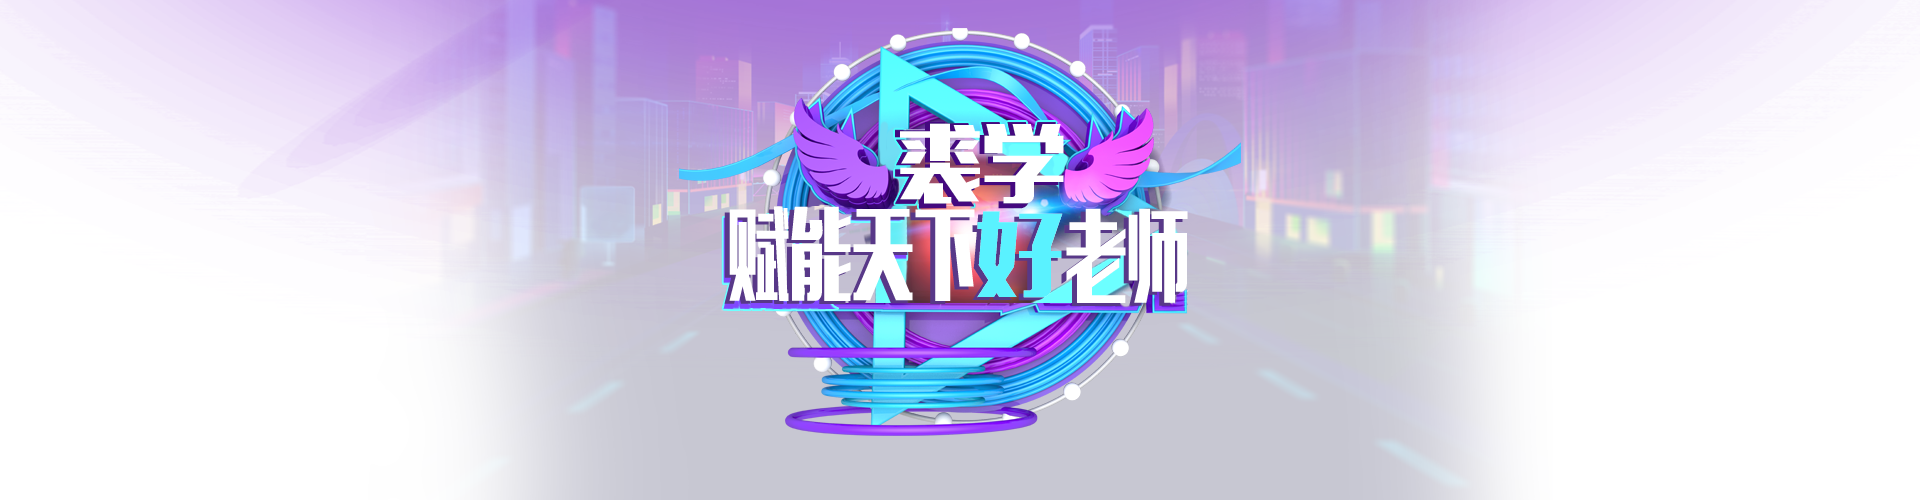
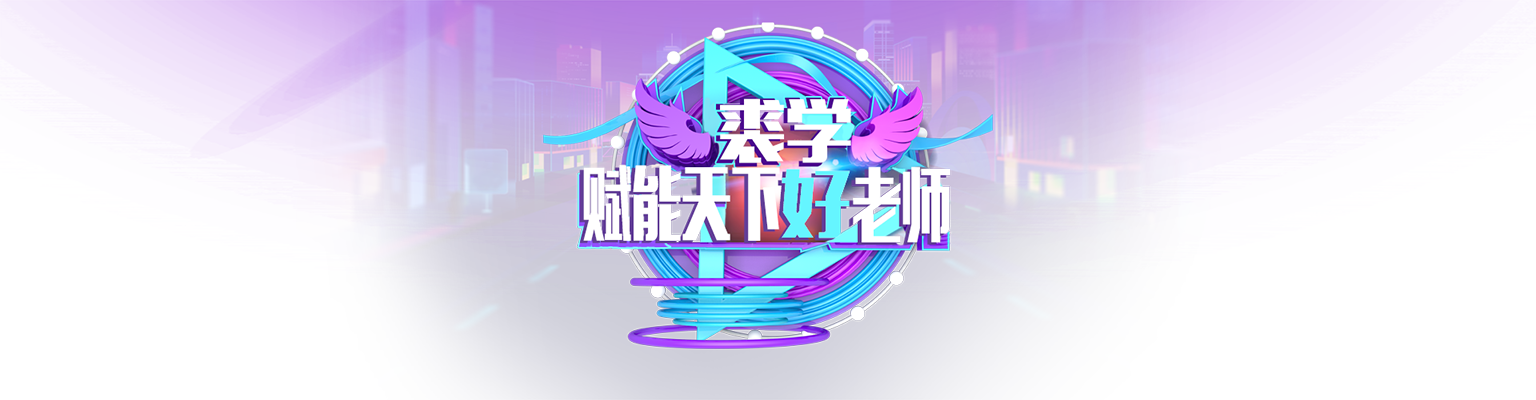
入驻申请 页面更新

diff --git a/vue/application/index.html b/vue/application/index.html
@@ -5,7 +5,7 @@
     <meta http-equiv="X-UA-Compatible" content="IE=edge">
     <meta name="viewport" content="width=device-width, initial-scale=1, user-scalable=no">
     <meta name="format-detection" content="telephone=yes">
-    <title>申请入驻</title>
+    <title>入驻申请</title>
     <!-- 引入样式 -->
     <link rel="stylesheet" href="https://unpkg.com/mint-ui/lib/style.css">
     <link rel="stylesheet" href="css/index.css">
@@ -14,6 +14,7 @@
 <div id="app" class="wrap">
     <div class="header">
         <div class="header-ad">
+            <img src="images/ad-icon.png" height="200" />
         </div>
     </div>
     <div class="container">
@@ -21,9 +22,8 @@
             <div class="title">— 入驻申请 —</div>
             <div class="form-items">
                 <mt-field label="姓名" placeholder="请输入姓名" v-model="info.name"></mt-field>
-                <mt-field label="年龄" placeholder="请输入年龄" type="number" v-model="info.age"></mt-field>
-                <mt-field label="教授科目" placeholder="请输入教授科目" v-model="info.subject"></mt-field>
-                <mt-field label="教龄" placeholder="请输入教龄" type="number" v-model="info.exAge"></mt-field>
+                <mt-field label="年龄" placeholder="请输入年龄" v-model="info.age"></mt-field>
+                <mt-field label="教龄" placeholder="请输入教龄" v-model="info.exAge"></mt-field>
                 <mt-field label="擅长科目及年级" placeholder="多个科目或年级以,隔开" v-model="info.goodSubject"></mt-field>
                 <mt-field label="教学经历" placeholder="请输入教学经历" type="textarea" rows="4" v-model="info.experience"></mt-field>
                 <mt-field label="教学特色" placeholder="请输入教学特色" type="textarea" rows="4" v-model="info.characteristic"></mt-field>
@@ -42,8 +42,10 @@
                 </div>
                 <mt-popup v-model="popupSchool" class="school-popup" position="bottom">
                     <div class="school-list" v-if="popupSchool">
-                        <div class="school-item" v-for="(item, index) in schoolValues" :key="index" @click="handleSchoolPicker(item)">
-                            {{item}}<i v-if="item === info.school" class="mintui mintui-success"></i>
+                        <div class="school-item" v-for="(item, index) in schoolValues" :key="index" @click="handleSchoolPicker(item.name)">
+                            <div class="name">{{item.name}}</div>
+                            <div class="address">{{item.address}}</div>
+                            <i v-if="item.name === info.school" class="mintui mintui-success"></i>
                         </div>
                     </div>
                 </mt-popup>
@@ -73,27 +75,60 @@
 <script src="js/vue.js"></script>
 <script src="https://unpkg.com/mint-ui/lib/index.js"></script>
 <script src="https://unpkg.com/axios/dist/axios.min.js"></script>
+<script src="http://res.wx.qq.com/open/js/jweixin-1.0.0.js"></script>
 <script>
     var app = new Vue({
         el: '#app',
         data: {
             info: {
-                name: null,
+                name: null, // 姓名
                 age: null, // 年龄
-                subject: null, // 教授科目
                 exAge: null, // 教龄
-                goodSubject: null,
+                goodSubject: null, // 擅长科目
                 experience: null, // 教学经历
                 characteristic: null, // 教学特色
                 cases: null, // 教学成功案例
-                school: null,
-                certificate: null,
-                phone: null,
+                school: null, // 校区
+                certificate: null, // 获奖证书
+                phone: null, // 手机
             },
             popupPhoto: false,
             popupIndex: 0,
             popupSchool: false,
-            schoolValues: ['红岭校区', '百花校区', '五和校区', '宝安校区'],
+            schoolValues:[
+                {
+                    name: '裘学红岭旗舰校区',
+                    address: '福田区红岭中路2029-2041号商业裙楼全二层'
+                },
+                {
+                    name: '裘学百花校区',
+                    address: '福田区百花二路百花新天地裙楼四层（艺术学校对面）'
+                },
+                {
+                    name: '裘学梅林校区',
+                    address: '福田区梅林一村五区综合楼（华润万家超市二楼）'
+                },
+                {
+                    name: '裘学莲花北校区',
+                    address: '福田区莲花路莲花北村富莲大厦二栋三楼'
+                },
+                {
+                    name: '裘学翠竹校区',
+                    address: '罗湖区翠竹路翠都花园裙楼一层'
+                },
+                {
+                    name: '裘学五和校区',
+                    address: '龙岗区坂田街道四季花城紫薇苑商业街A02商铺'
+                },
+                {
+                    name: '裘学田贝校区',
+                    address: '罗湖区贝丽南路龙丽园裙楼一层106号'
+                },
+                {
+                    name: '裘学宝安校区',
+                    address: '宝安区香缤广场四楼（影尊电影院旁边）'
+                }
+            ],
         },
         methods: {
             handleClick: function (event) {
@@ -101,85 +136,122 @@
                 if (!_this.info.name || !_this.info.phone) {
                     _this.$messagebox('提示', '请填写' + (!_this.info.name ? '姓名' : '') + (!_this.info.phone ? '手机号码' : '') + '！');
                 } else {
-                    axios.post('/applicate/add', {
-                        name: _this.info.name,
-                        age: _this.info.age, // 年龄
-                        subject: _this.info.subject, // 教授科目
-                        exAge: _this.info.exAge, // 教龄
-                        goodSubject: _this.info.goodSubject,
-                        experience: _this.info.experience, // 教学经历
-                        characteristic: _this.info.characteristic, // 教学特色
-                        cases: _this.info.cases, // 教学成功案例
-                        school: _this.info.school,
-                        certificate: _this.info.certificate,
-                        phone: _this.info.phone,
-                    })
-                        .then(function (res) {
-                            if (res.errorCode === 999 || res.errorCode === '999') {
-                                _this.$toast(res.msg);
-                            } else {
-                                // 提交成功
-                                _this.$toast(res.msg);
-                                _this.info = {
-                                    name: null,
-                                    age: null, // 年龄
-                                    subject: null, // 教授科目
-                                    exAge: null, // 教龄
-                                    goodSubject: null,
-                                    experience: null, // 教学经历
-                                    characteristic: null, // 教学特色
-                                    cases: null, // 教学成功案例
-                                    school: null,
-                                    certificate: null,
-                                    phone: null,
-                                }
+                    axios({
+                        url:'/api/entering/add',
+                        method: 'POST',
+                        transformRequest: [function (data) {
+                            var ret = ''
+                            for (var it in data) {
+                                ret += encodeURIComponent(it) + '=' + encodeURIComponent(data[it]) + '&'
                             }
-                        })
-                        .catch(function (err) {
-                            _this.$toast(res.msg);
-                        });
-                    /*  axios({
+                            return ret
+                        }],
                         headers: {
-                          'Access-Control-Allow-Origin': '*'
-                        },//设置跨域请求头
-                        method: "POST",//请求方式
-                        url: "http://127.0.0.1:8362/applicate/add",//请求地址
-                        data: {
-                          name: _this.info.name,
-                          age: _this.info.age, // 年龄
-                          subject: _this.info.subject, // 教授科目
-                          exAge: _this.info.exAge, // 教龄
-                          goodSubject: _this.info.goodSubject,
-                          experience: _this.info.experience, // 教学经历
-                          characteristic: _this.info.characteristic, // 教学特色
-                          cases: _this.info.cases, // 教学成功案例
-                          school: _this.info.school,
-                          certificate: _this.info.certificate,
-                          phone: _this.info.phone,
+                            'Content-Type': 'application/x-www-form-urlencoded'
+                        },
+                        data:{
+                            name: _this.info.name,
+                            age: _this.info.age, // 年龄
+                            exAge: _this.info.exAge, // 教龄
+                            goodSubject: _this.info.goodSubject,
+                            experience: _this.info.experience, // 教学经历
+                            characteristic: _this.info.characteristic, // 教学特色
+                            cases: _this.info.cases, // 教学成功案例
+                            school: _this.info.school,
+                            certificate: _this.info.certificate,
+                            phone: _this.info.phone,
                         }
-                      })
-                        .then(function (res) {
-                          // 返回值
-                          if (res.errorCode === 999 || res.errorCode === '999') {
-                            _this.$toast(res.msg);
-                          } else {
-                            _this.$toast(res.msg);
-                          }
-                        })
+                    }).then(function (res) {
+                        if (res.data.errorCode === 999 || res.data.errorCode === '999') {
+                            _this.$toast(res.data.msg);
+                        } else {
+                            // 提交成功
+                            _this.$toast(res.data.msg);
+                            _this.info = {
+                                name: null,
+                                age: null, // 年龄
+                                exAge: null, // 教龄
+                                goodSubject: null,
+                                experience: null, // 教学经历
+                                characteristic: null, // 教学特色
+                                cases: null, // 教学成功案例
+                                school: null,
+                                certificate: null,
+                                phone: null,
+                            }
+                        }
+                    })
                         .catch(function (err) {
-                          _this.$toast(res.msg);
-                        });*/
+                            _this.$toast(err);
+                        });
                 }
             },
             handleSchoolPicker: function (value) {
                 this.info.school = value;
                 this.popupSchool = false;
+            },
+            wxShare: function (open, url, title, img, desc) {
+                const menus = ['menuItem:share:appMessage', 'menuItem:share:timeline', 'menuItem:share:qq', 'menuItem:share:weiboApp', 'menuItem:favorite', 'menuItem:share:facebook', 'menuItem:share:QZone'] // 要隐藏的菜单项，只能隐藏“传播类”和“保护类”按钮，所有menu项见附录3
+                if (open) {
+                    setTimeout(function() {
+                        wx.showMenuItems({
+                            menuList: menus // 要显示的菜单项，所有menu项见附录3
+                        });
+                        wx.onMenuShareAppMessage({
+                            title: title, // 分享标题
+                            desc: desc, // 分享描述
+                            link: url, // 分享链接，该链接域名或路径必须与当前页面对应的公众号JS安全域名一致
+                            imgUrl: img, // 分享图标
+                        });
+                        wx.onMenuShareTimeline({
+                            title: title, // 分享标题
+                            desc: desc, // 分享描述
+                            link: url, // 分享链接，该链接域名或路径必须与当前页面对应的公众号JS安全域名一致
+                            imgUrl: img, // 分享图标
+                        });
+                    }, 500);
+                } else {
+                    wx.hideMenuItems({
+                        menuList: menus
+                    });
+                }
             }
+
         },
+
         mounted: function () {
+            var _this = this;
+            if (window.wx) {
+                var url = 'http://support.qiuxue001.xyz/wx/api/index.php?r=site/config';
+                axios({
+                    url: url,
+                    method: "POST",
+                    headers: {
+                        "Content-Type": "multipart/form-data",
+                        'Content-Type': 'application/x-www-form-urlencoded; charset=utf-8',
+                    },
+                }).then(function (res) {
+                    window.wx.config({
+                        debug: false, // 开启调试模式,调用的所有api的返回值会在客户端alert出来，若要查看传入的参数，可以在pc端打开，参数信息会通过log打出，仅在pc端时才会打印。
+                        appId: res.data.appId, // 必填，公众号的唯一标识
+                        timestamp: res.data.timestamp, // 必填，生成签名的时间戳
+                        nonceStr: res.data.nonceStr, // 必填，生成签名的随机串
+                        signature: res.data.signature,// 必填，签名
+                        jsApiList: ['onMenuShareTimeline', 'onMenuShareAppMessage', 'hideMenuItems', 'showMenuItems', 'getLocation', 'openLocation'] // 必填，需要使用的JS接口列表
+                    })
+                    wx.ready(function () {
+                        _this.wxShare(true, window.location.href,'裘学入驻申请','https://vteach-file-1.oss-cn-shenzhen.aliyuncs.com/img/logo_wx_1.jpg','裘学赋能天下好老师！');
+                    });
+                    wx.error(function (res) {
+                    });
+                    window.addEventListener('hashchange', function () {
+                        _this.wxShare(false);
+                    })
+                });
+            }
         }
     })
-
+    Vue.config.productionTip = false
 </script>
 </body>
 </html>

diff --git a/vue/application/css/index.css b/vue/application/css/index.css
@@ -14,13 +14,14 @@ body{
   text-align: center;
   width: 100%;
   height: 100%;
-  background-image: url('../images/ad-1.png');
+  background-image: url('../images/ad-bg.png');
   background-repeat: no-repeat;
   background-size:auto 240px ;
   background-position: center top;
 }
 .header-ad img{
   height: 180px;
+   margin-top: 30px;
 }
 .wrap .container {
   padding: 0  10px 20px;
@@ -38,6 +39,11 @@ body{
   color: #9638ff;
   font-size: 18px;
   font-weight: bold;
+}
+/*组件样式更改*/
+.mint-field .mint-cell-title{
+    align-self: start;
+    padding-top: 16px;
 }
 .mint-cell-wrapper{
     font-size: 14px;
@@ -65,10 +71,16 @@ body{
 }
 .school-list .school-item{
     position: relative;
-    height: 36px;
-    line-height: 36px;
-    padding:0 10px;
+    padding:5px 15px 5px 10px;
     font-size: 14px;
+}
+.school-list .school-item .name{
+    font-size: 14px;
+    color: #333;
+}
+.school-list .school-item .address{
+    font-size: 12px;
+    color: #999;
 }
 
 .school-list .school-item:before{
@@ -87,7 +99,10 @@ body{
     transform: scaleY(0.5);
 }
 .school-list .school-item i {
-    float: right;
+    position: absolute;
+    right:10px;
+    top: 50%;
+    transform: translate(0, -50%);
   font-size: 14px;
   color: #9638ff;
 }
